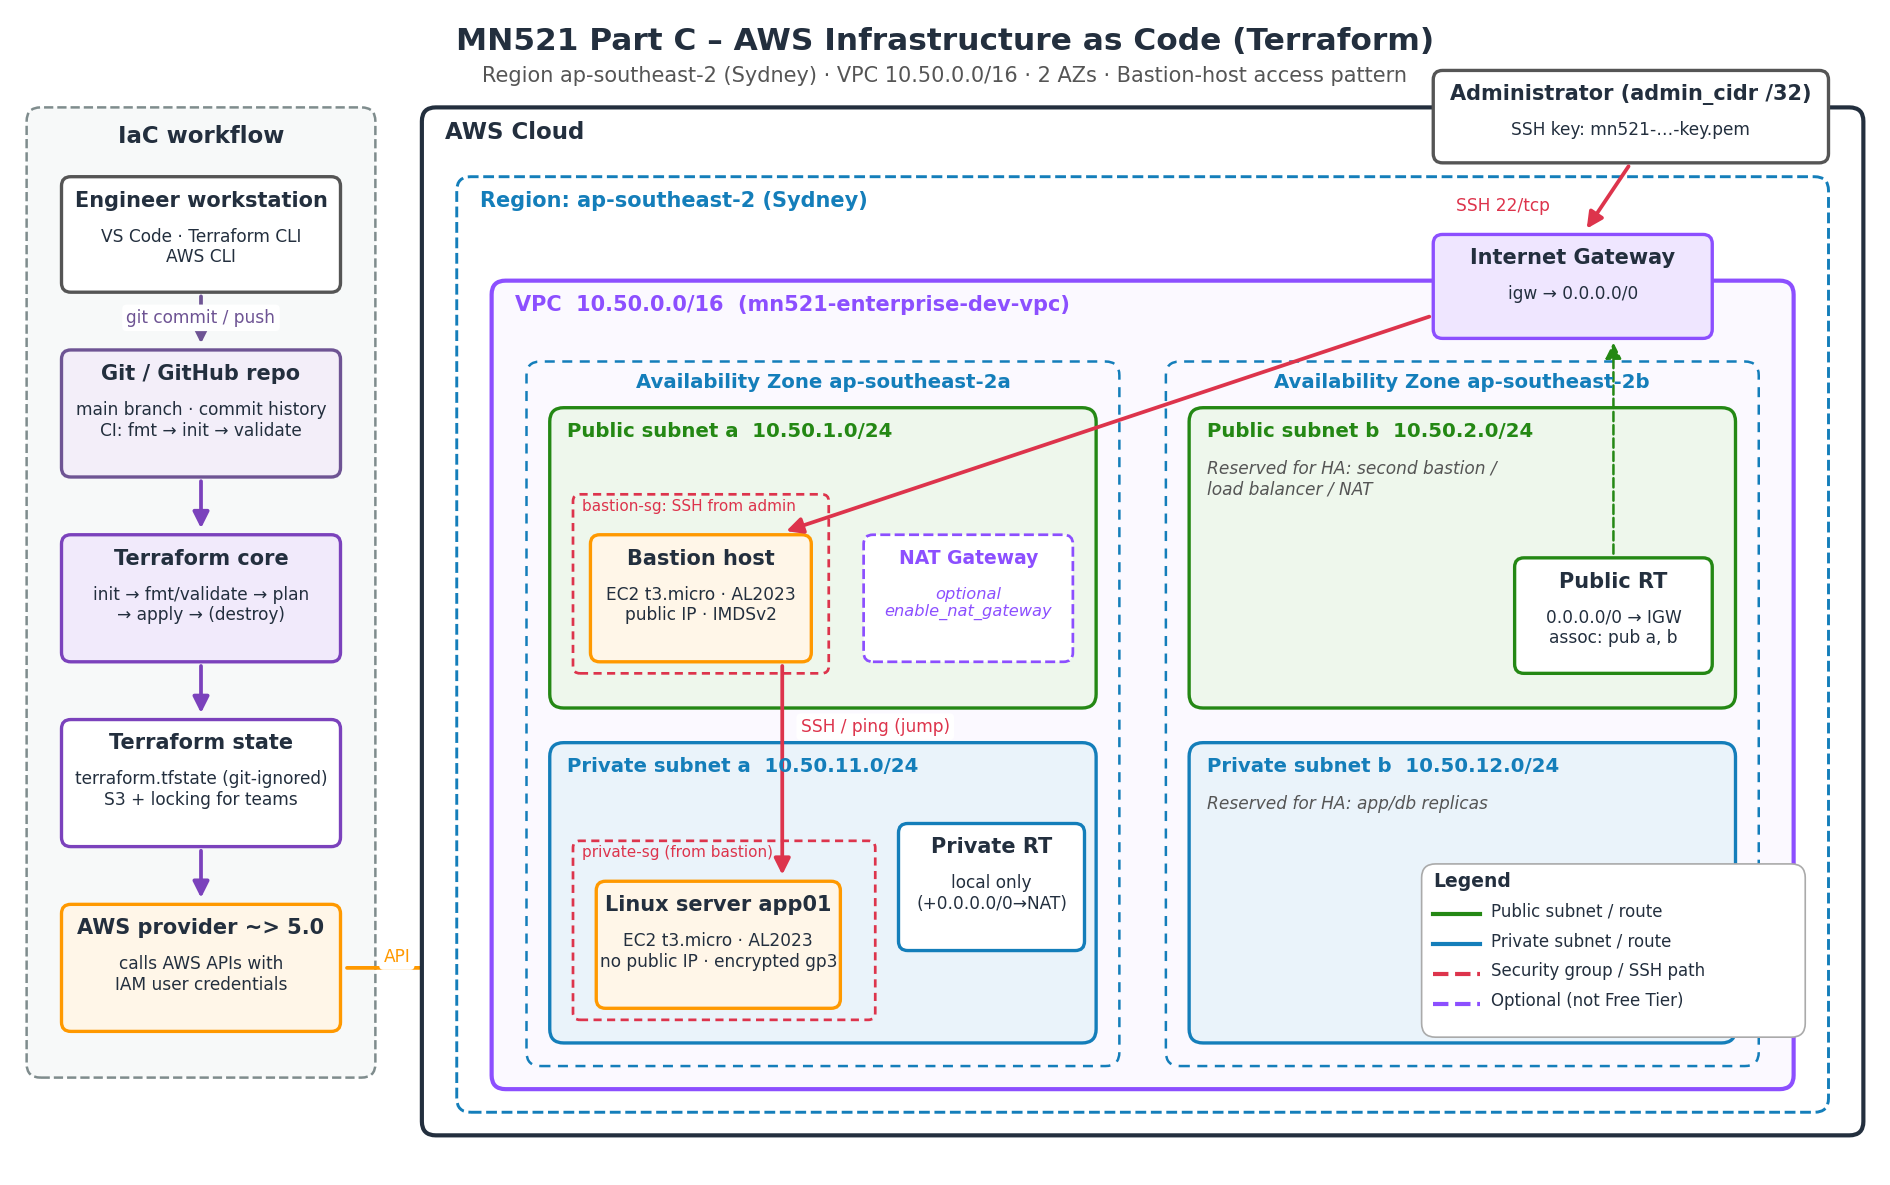
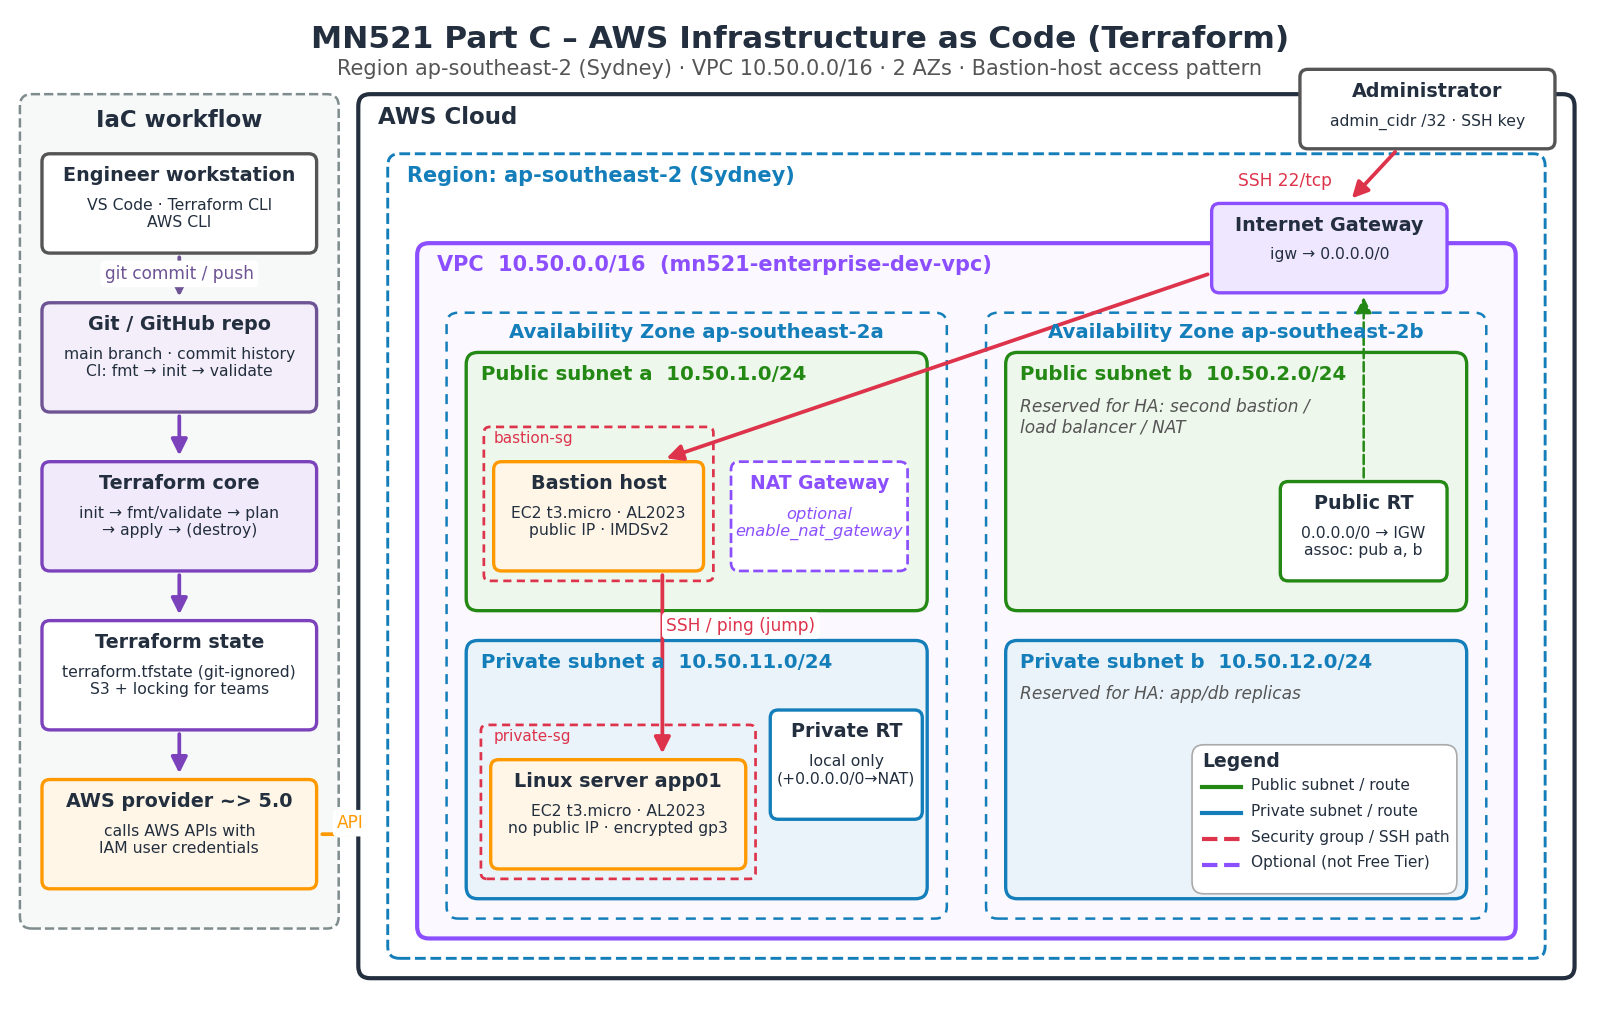
Improve architecture diagram legibility for the report
- Larger relative font size so labels stay readable at A4 width
- Simplified SG labels (full rules documented in README/report)

diff --git a/docs/architecture.py b/docs/architecture.py
@@ -2,7 +2,7 @@
 import matplotlib.pyplot as plt
 from matplotlib.patches import FancyBboxPatch, FancyArrowPatch
 
-fig, ax = plt.subplots(figsize=(16, 10), dpi=150)
+fig, ax = plt.subplots(figsize=(13.5, 8.6), dpi=150)
 ax.set_xlim(0, 160)
 ax.set_ylim(0, 100)
 ax.axis("off")
@@ -22,8 +22,8 @@ def label(x, y, text, size=10, weight="normal", color=INK, ha="left", va="top", 
 
 def node(x, y, w, h, title, sub, edge, face):
     box(x, y, w, h, edge, face, lw=1.6, r=0.8)
-    label(x + w / 2, y + h - 1.2, title, 10, "bold", ha="center")
-    label(x + w / 2, y + h - 4.4, sub, 8.2, ha="center")
+    label(x + w / 2, y + h - 1.2, title, 9.2, "bold", ha="center")
+    label(x + w / 2, y + h - 4.4, sub, 7.5, ha="center")
 
 
 def arrow(p1, p2, color=INK, ls="-", text=None, toff=(0, 1.2), rad=0.0, lw=1.8):
@@ -41,18 +41,18 @@ label(80, 95.6, "Region ap-southeast-2 (Sydney) · VPC 10.50.0.0/16 · 2 AZs · 
       10, ha="center", color="#555")
 
 # ---------------- Left: IaC workflow ----------------
-box(1, 8, 30, 84, "#7F8C8D", "#F7F9F9", ls="--", lw=1.2)
-label(16, 90.5, "IaC workflow", 11, "bold", ha="center")
-node(4, 76, 24, 10, "Engineer workstation", "VS Code · Terraform CLI\nAWS CLI", "#555", "#FFFFFF")
-node(4, 60, 24, 11, "Git / GitHub repo", "main branch · commit history\nCI: fmt → init → validate", "#6E5494", "#F3EEF9")
-node(4, 44, 24, 11, "Terraform core", "init → fmt/validate → plan\n→ apply → (destroy)", "#7B42BC", "#F1EAFB")
-node(4, 28, 24, 11, "Terraform state", "terraform.tfstate (git-ignored)\nS3 + locking for teams", "#7B42BC", "#FFFFFF")
-node(4, 12, 24, 11, "AWS provider ~> 5.0", "calls AWS APIs with\nIAM user credentials", "#FF9900", "#FFF6E8")
-arrow((16, 76), (16, 71.2), "#6E5494", text="git commit / push", toff=(0, -0.6))
-arrow((16, 60), (16, 55.2), "#7B42BC")
-arrow((16, 44), (16, 39.2), "#7B42BC")
-arrow((16, 28), (16, 23.2), "#7B42BC")
-arrow((28.2, 17.5), (37.5, 17.5), "#FF9900", text="API", toff=(0, 0.2))
+box(0.5, 8, 32.5, 84, "#7F8C8D", "#F7F9F9", ls="--", lw=1.2)
+label(16.75, 90.5, "IaC workflow", 11, "bold", ha="center")
+node(2.75, 76, 28, 10, "Engineer workstation", "VS Code · Terraform CLI\nAWS CLI", "#555", "#FFFFFF")
+node(2.75, 60, 28, 11, "Git / GitHub repo", "main branch · commit history\nCI: fmt → init → validate", "#6E5494", "#F3EEF9")
+node(2.75, 44, 28, 11, "Terraform core", "init → fmt/validate → plan\n→ apply → (destroy)", "#7B42BC", "#F1EAFB")
+node(2.75, 28, 28, 11, "Terraform state", "terraform.tfstate (git-ignored)\nS3 + locking for teams", "#7B42BC", "#FFFFFF")
+node(2.75, 12, 28, 11, "AWS provider ~> 5.0", "calls AWS APIs with\nIAM user credentials", "#FF9900", "#FFF6E8")
+arrow((16.75, 76), (16.75, 71.2), "#6E5494", text="git commit / push", toff=(0, -0.6))
+arrow((16.75, 60), (16.75, 55.2), "#7B42BC")
+arrow((16.75, 44), (16.75, 39.2), "#7B42BC")
+arrow((16.75, 28), (16.75, 23.2), "#7B42BC")
+arrow((30.9, 17.5), (37.5, 17.5), "#FF9900", text="API", toff=(0, 0.2))
 
 # ---------------- AWS Cloud / Region ----------------
 box(35, 3, 124, 89, INK, "#FFFFFF", lw=2)
@@ -68,7 +68,7 @@ label(43, 75.8, "VPC  10.50.0.0/16  (mn521-enterprise-dev-vpc)", 10, "bold", col
 node(122, 72, 24, 9, "Internet Gateway", "igw → 0.0.0.0/0", "#8C4FFF", "#EFE6FF")
 
 # Admin outside
-node(122, 87.2, 34, 8, "Administrator (admin_cidr /32)", "SSH key: mn521-…-key.pem", "#555", "#FFFFFF")
+node(131, 86.5, 26, 8, "Administrator", "admin_cidr /32 · SSH key", "#555", "#FFFFFF")
 
 # AZ columns
 for i, (x, az) in enumerate([(44, "ap-southeast-2a"), (99, "ap-southeast-2b")]):
@@ -90,9 +90,9 @@ label(102.5, 35.8, "Private subnet b  10.50.12.0/24", 9.5, "bold", color="#147EB
 label(102.5, 32.5, "Reserved for HA: app/db replicas", 8.2, color="#555", style="italic")
 
 # Bastion in public a (security group outline)
-box(48, 43, 22, 15.5, "#DD344C", "none", ls=(0, (3, 2)), lw=1.3, r=0.6)
-label(48.8, 58.1, "bastion-sg: SSH from admin", 7.3, color="#DD344C")
-node(49.5, 44, 19, 11, "Bastion host", "EC2 t3.micro · AL2023\npublic IP · IMDSv2", "#FF9900", "#FFF6E8")
+box(47.8, 43, 23.4, 15.5, "#DD344C", "none", ls=(0, (3, 2)), lw=1.3, r=0.6)
+label(48.8, 58.1, "bastion-sg", 7.3, color="#DD344C")
+node(48.8, 44, 21.4, 11, "Bastion host", "EC2 t3.micro · AL2023\npublic IP · IMDSv2", "#FF9900", "#FFF6E8")
 
 # Optional NAT
 box(73, 44, 18, 11, "#8C4FFF", "#FFFFFF", ls="--", lw=1.3, r=0.8)
@@ -100,23 +100,23 @@ label(82, 53.8, "NAT Gateway", 9, "bold", ha="center", color="#8C4FFF")
 label(82, 50.5, "optional\nenable_nat_gateway", 7.8, ha="center", color="#8C4FFF", style="italic")
 
 # Private EC2
-box(48, 13, 26, 15.5, "#DD344C", "none", ls=(0, (3, 2)), lw=1.3, r=0.6)
-label(48.8, 28.1, "private-sg (from bastion)", 7.3, color="#DD344C")
-node(50, 14, 21, 11, "Linux server app01", "EC2 t3.micro · AL2023\nno public IP · encrypted gp3", "#FF9900", "#FFF6E8")
+box(47.5, 13, 28, 15.5, "#DD344C", "none", ls=(0, (3, 2)), lw=1.3, r=0.6)
+label(48.8, 28.1, "private-sg", 7.3, color="#DD344C")
+node(48.5, 14, 26, 11, "Linux server app01", "EC2 t3.micro · AL2023\nno public IP · encrypted gp3", "#FF9900", "#FFF6E8")
 
 # Route tables
-node(76, 19, 16, 11, "Private RT", "local only\n(+0.0.0.0/0→NAT)", "#147EBA", "#FFFFFF")
+node(77, 19, 15.5, 11, "Private RT", "local only\n(+0.0.0.0/0→NAT)", "#147EBA", "#FFFFFF")
 node(129, 43, 17, 10, "Public RT", "0.0.0.0/0 → IGW\nassoc: pub a, b", "#248814", "#FFFFFF")
 
 # Arrows
-arrow((139, 87.2), (135, 81.2), "#DD344C", text="SSH 22/tcp", toff=(-9, -1.5))
+arrow((141, 86.5), (136, 81.2), "#DD344C", text="SSH 22/tcp", toff=(-9, -1.5))
 arrow((122, 74), (66, 55.2), "#DD344C")
 arrow((66, 44), (66, 25.2), "#DD344C", text="SSH / ping (jump)", toff=(8, 3.0))
 arrow((137.5, 53), (137.5, 72), "#248814", ls="--", lw=1.2)
 
 # Legend
-lx, ly = 122, 20
-box(lx - 1, ly - 8.5, 33, 15, "#AAA", "#FFFFFF", lw=0.8)
+lx, ly = 121, 20
+box(lx - 1, ly - 8.5, 27, 15, "#AAA", "#FFFFFF", lw=0.8)
 label(lx, ly + 5.8, "Legend", 9, "bold")
 for j, (c, t, ls) in enumerate([("#248814", "Public subnet / route", "-"),
                                  ("#147EBA", "Private subnet / route", "-"),
@@ -124,7 +124,7 @@ for j, (c, t, ls) in enumerate([("#248814", "Public subnet / route", "-"),
                                  ("#8C4FFF", "Optional (not Free Tier)", "--")]):
     yy = ly + 2.2 - j * 2.6
     ax.plot([lx, lx + 4], [yy, yy], color=c, lw=2, ls=ls)
-    label(lx + 5, yy + 1, t, 8)
+    label(lx + 5, yy + 1, t, 7.4)
 
 plt.savefig("docs/architecture.png", bbox_inches="tight", facecolor="white")
 print("saved")
